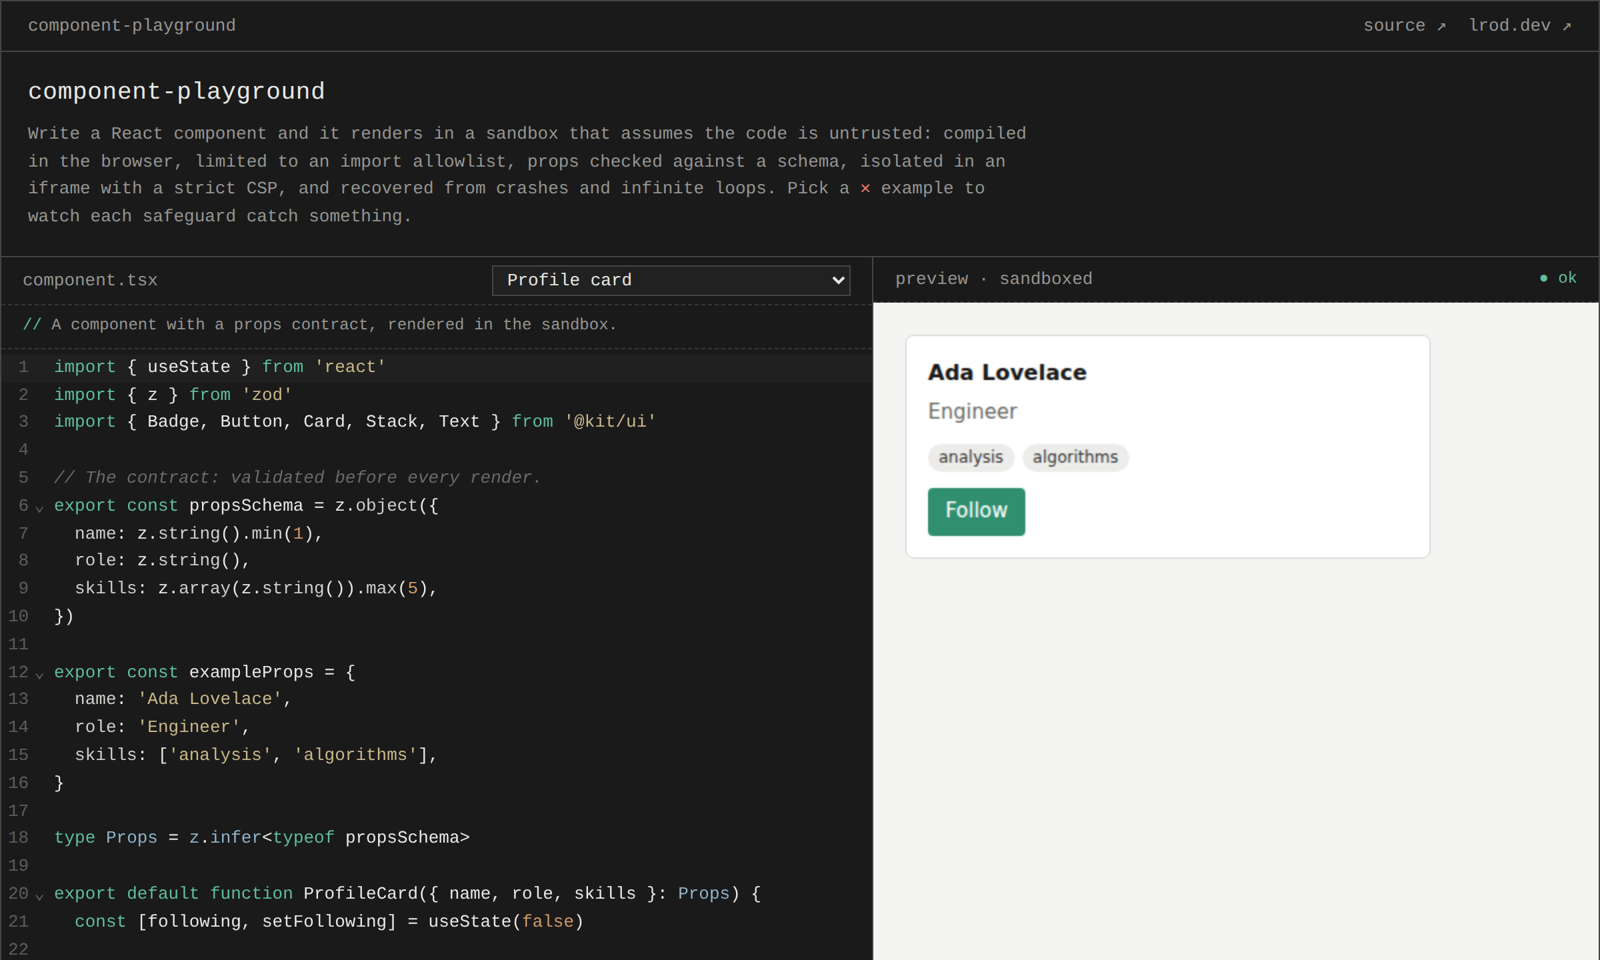
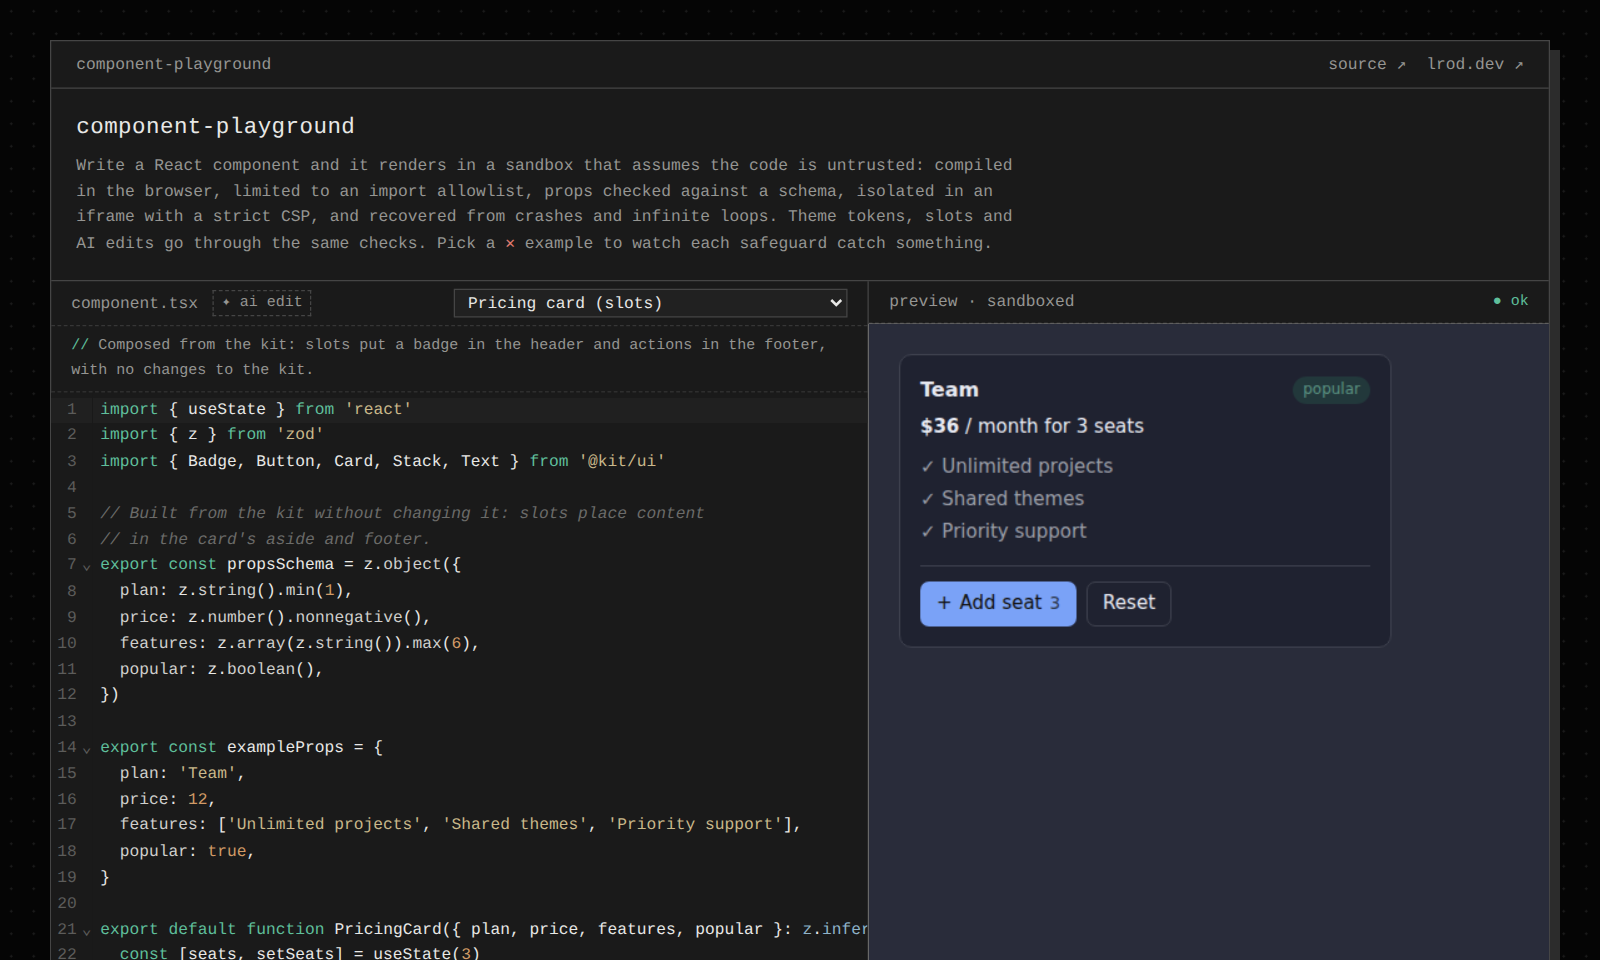
Add host CSP, key-isolation tests, v2 README and screenshot (M10)

diff --git a/src/csp.test.ts b/src/csp.test.ts
@@ -1,0 +1,57 @@
+import { describe, expect, it } from 'vitest'
+import { openai } from './ai/openai'
+import { HOST_CSP, PROVIDER_ORIGINS, SANDBOX_CSP } from './csp'
+
+const directive = (policy: string, name: string) =>
+  policy
+    .split(';')
+    .map((d) => d.trim())
+    .find((d) => d.startsWith(name + ' '))
+
+describe('content security policies', () => {
+  it('the sandbox cannot make network requests', () => {
+    expect(directive(SANDBOX_CSP, 'connect-src')).toBe("connect-src 'none'")
+    expect(directive(SANDBOX_CSP, 'default-src')).toBe("default-src 'none'")
+  })
+
+  it('the host can only reach itself and the AI provider', () => {
+    expect(directive(HOST_CSP, 'connect-src')).toBe(`connect-src 'self' ${PROVIDER_ORIGINS.join(' ')}`)
+    expect(PROVIDER_ORIGINS).toContain(openai.origin)
+  })
+
+  it('the host never evaluates code or loads third-party scripts', () => {
+    expect(directive(HOST_CSP, 'script-src')).toBe("script-src 'self'")
+    expect(HOST_CSP).not.toContain('unsafe-eval')
+    for (const policy of [HOST_CSP, SANDBOX_CSP]) expect(policy).not.toMatch(/(^|\s)\*(\s|;|$)/)
+  })
+})
+
+/**
+ * Architecture rule: the API key lives in the AI panel, and nothing that
+ * talks to the sandbox may depend on the AI code. If someone later wires the
+ * key into the sandbox path, this fails.
+ */
+describe('the API key cannot reach the sandbox', () => {
+  // Source files as text, via Vite's glob import (no Node APIs needed).
+  const sources = import.meta.glob<string>(['./**/*.{ts,tsx}', '!./**/*.test.{ts,tsx}'], {
+    query: '?raw',
+    import: 'default',
+    eager: true,
+  })
+  const files = Object.entries(sources)
+
+  it('sandbox and messaging code never import the AI modules', () => {
+    const messaging = files.filter(([f]) => f.startsWith('./sandbox/') || f === './host/useSandbox.ts' || f === './protocol.ts')
+    expect(messaging.length).toBeGreaterThan(3)
+    for (const [f, text] of messaging) expect(text, f).not.toMatch(/from ['"][./]*\/?ai\//)
+  })
+
+  it('the message protocol has no field that could carry a key', () => {
+    expect(sources['./protocol.ts']).not.toMatch(/\b(key|apiKey|token|secret|authorization)\s*:/i)
+  })
+
+  it('the key is only handled in the AI modules', () => {
+    const offenders = files.filter(([f, text]) => !f.startsWith('./ai/') && /setKey\(|Bearer /.test(text)).map(([f]) => f)
+    expect(offenders).toEqual([])
+  })
+})

diff --git a/vite.config.ts b/vite.config.ts
@@ -2,42 +2,25 @@
 import { resolve } from 'node:path'
 import react from '@vitejs/plugin-react'
 import { defineConfig, type Plugin } from 'vite'
+import { HOST_CSP, SANDBOX_CSP } from './src/csp.ts'
 
-/**
- * Strict CSP for the sandbox document, added only to production builds
- * (Vite's dev server needs inline scripts and a websocket for HMR).
- *
- * - script-src 'unsafe-eval': user code runs through `new Function`.
- * - connect-src 'none': no fetch/XHR/WebSocket, so user code can't phone home.
- * - no frame/object/form/base: nothing to embed, submit or redirect.
- */
-export const SANDBOX_CSP = [
-  "default-src 'none'",
-  "script-src 'self' 'unsafe-eval'",
-  "style-src 'self' 'unsafe-inline'",
-  'img-src data: blob:',
-  "font-src 'none'",
-  "connect-src 'none'",
-  "form-action 'none'",
-  "base-uri 'none'",
-].join('; ')
-
-function sandboxCsp(): Plugin {
+/** Adds each page's CSP as a <meta> tag, in production builds only (see src/csp.ts). */
+function csp(): Plugin {
   return {
-    name: 'sandbox-csp',
+    name: 'csp',
     apply: 'build',
     transformIndexHtml(html, ctx) {
-      if (!ctx.filename.endsWith('sandbox.html')) return html
-      return html.replace(
-        '<!-- %SANDBOX_CSP% -->',
-        `<meta http-equiv="Content-Security-Policy" content="${SANDBOX_CSP}" />`,
-      )
+      const policy = ctx.filename.endsWith('sandbox.html') ? SANDBOX_CSP : HOST_CSP
+      const tag = `<meta http-equiv="Content-Security-Policy" content="${policy}" />`
+      const marker = ctx.filename.endsWith('sandbox.html') ? '<!-- %SANDBOX_CSP% -->' : '<!-- %HOST_CSP% -->'
+      if (!html.includes(marker)) throw new Error(`CSP marker missing in ${ctx.filename}`)
+      return html.replace(marker, tag)
     },
   }
 }
 
 export default defineConfig({
-  plugins: [react(), sandboxCsp()],
+  plugins: [react(), csp()],
   build: {
     rollupOptions: {
       input: {

diff --git a/src/csp.ts b/src/csp.ts
@@ -1,0 +1,45 @@
+/**
+ * Content Security Policies, added as <meta> tags to production builds only
+ * (Vite's dev server needs inline scripts and a websocket for HMR).
+ */
+
+/** The only origins the host page may send requests to besides itself. */
+export const PROVIDER_ORIGINS = ['https://api.openai.com'] as const
+
+/**
+ * The sandbox document: runs untrusted code.
+ * - script-src 'unsafe-eval': user code runs through `new Function`.
+ * - connect-src 'none': no fetch/XHR/WebSocket, so user code can't phone home.
+ * - no frame/object/form/base: nothing to embed, submit or redirect.
+ */
+export const SANDBOX_CSP = [
+  "default-src 'none'",
+  "script-src 'self' 'unsafe-eval'",
+  "style-src 'self' 'unsafe-inline'",
+  'img-src data: blob:',
+  "font-src 'none'",
+  "connect-src 'none'",
+  "form-action 'none'",
+  "base-uri 'none'",
+].join('; ')
+
+/**
+ * The host page: holds the API key while the AI panel is open.
+ * - connect-src: only this site and the AI provider, so the key can't be sent
+ *   anywhere else even if something on the page misbehaved.
+ * - script-src 'self': no inline or third-party scripts, and no eval (user
+ *   code never runs here; it runs in the sandbox).
+ * - style-src 'unsafe-inline': the editor injects its own <style> tags.
+ */
+export const HOST_CSP = [
+  "default-src 'self'",
+  "script-src 'self'",
+  "style-src 'self' 'unsafe-inline'",
+  "img-src 'self' data:",
+  `connect-src 'self' ${PROVIDER_ORIGINS.join(' ')}`,
+  "frame-src 'self'",
+  "object-src 'none'",
+  "worker-src 'none'",
+  "form-action 'none'",
+  "base-uri 'none'",
+].join('; ')

diff --git a/index.html b/index.html
@@ -2,15 +2,16 @@
 <html lang="en">
   <head>
     <meta charset="UTF-8" />
+    <!-- %HOST_CSP% -->
     <meta name="viewport" content="width=device-width, initial-scale=1.0" />
     <meta name="color-scheme" content="dark" />
     <meta name="theme-color" content="#050505" />
-    <meta name="description" content="Write a React component and watch it render inside a sandbox that assumes the code is untrusted." />
+    <meta name="description" content="Write, theme or AI-edit a React component and watch it render inside a sandbox that assumes the code is untrusted." />
     <meta name="author" content="Luis Rodriguez" />
     <link rel="canonical" href="https://playground.lrod.dev/" />
     <meta property="og:type" content="website" />
     <meta property="og:title" content="component-playground" />
-    <meta property="og:description" content="Write a React component and watch it render inside a sandbox that assumes the code is untrusted." />
+    <meta property="og:description" content="Write, theme or AI-edit a React component and watch it render inside a sandbox that assumes the code is untrusted." />
     <meta property="og:url" content="https://playground.lrod.dev/" />
     <meta property="og:image" content="https://playground.lrod.dev/og-image.png" />
     <meta property="og:image:width" content="1200" />

diff --git a/src/App.tsx b/src/App.tsx
@@ -63,8 +63,8 @@ export default function App() {
         <p>
           Write a React component and it renders in a sandbox that assumes the code is untrusted: compiled in the
           browser, limited to an import allowlist, props checked against a schema, isolated in an iframe with a strict
-          CSP, and recovered from crashes and infinite loops. Pick a <strong>✕</strong> example to watch each safeguard
-          catch something.
+          CSP, and recovered from crashes and infinite loops. Theme tokens, slots and AI edits go through the same
+          checks. Pick a <strong>✕</strong> example to watch each safeguard catch something.
         </p>
       </div>
 

diff --git a/src/ai/openai.ts b/src/ai/openai.ts
@@ -2,6 +2,7 @@ import { z } from 'zod'
 import { EDIT_INSTRUCTIONS, editInput } from './prompt'
 import { ProviderError, type EditProposal, type EditProvider, type EditRequest } from './provider'
 
+// Must be listed in PROVIDER_ORIGINS (src/csp.ts), or the host CSP blocks it.
 const ORIGIN = 'https://api.openai.com'
 
 /** The model's answer, validated like any other untrusted input. */

diff --git a/README.md b/README.md
@@ -1,6 +1,6 @@
 # component-playground
 
-Write a React component and watch it render inside a sandbox that assumes the code is untrusted.
+Write a React component, restyle it with theme tokens, or ask an AI to edit it, and watch it render inside a sandbox that assumes all of that code is untrusted.
 
 **Live:** [playground.lrod.dev](https://playground.lrod.dev) · **Write-up:** [Running untrusted React components in the browser](https://lrod.dev/notes/running-untrusted-components/) · **Stack:** React · TypeScript · Vite · Sucrase · Zod · CodeMirror
 
@@ -15,6 +15,8 @@ The constraints that shaped it:
 - **Assume the code is hostile or just broken.** Both have to fail safely, and look the same to the host.
 - **No server.** Everything, including compilation, happens in the browser, so the demo is a static site.
 - **Every safeguard is observable.** If it can't be demonstrated in the failure gallery, it isn't claimed.
+- **Customize by composing, not editing.** Users extend a shared component kit through theme tokens and slots; the kit itself stays read-only.
+- **AI output is just more untrusted code.** It's reviewed as a diff and goes through the same checks as anything typed by hand.
 
 ## What it demonstrates
 
@@ -25,6 +27,9 @@ Letting people run their own UI code inside your app without letting that code b
 - **Validate** props against a schema before rendering
 - **Isolate** rendering in a sandboxed iframe with a strict CSP
 - **Recover** from render errors and infinite loops
+- **Theme** the kit with validated design tokens
+- **Compose** with slots, each behind its own error boundary
+- **Edit with AI** (bring your own OpenAI key), reviewed as a diff before anything runs
 
 ## Writing a component
 
@@ -48,6 +53,25 @@ export default function Hello({ name }: z.infer<typeof propsSchema>) {
 
 Imports are limited to `react`, `zod` and `@kit/ui` (`Card`, `Stack`, `Text`, `Button`, `Badge`).
 
+### Customizing the kit
+
+The kit can't be edited or patched (it's frozen); it's customized two ways:
+
+- **Theme tokens** in the theme tab: `accent`, `surface`, `text` (hex colors), `radius`, `space`, `fontScale` (bounded numbers). Text on surface must meet 4.5:1 contrast.
+- **Slots** for component parts: `Card` takes `header`, `aside` and `footer`; `Button` takes `icon` and `end`.
+
+```tsx
+<Card title="Team" slots={{ aside: <Badge tone="success">popular</Badge>, footer: <Button>Buy</Button> }}>
+  …
+</Card>
+```
+
+### AI edits
+
+Open **✦ ai edit**, paste an OpenAI API key, and describe a change. The key stays in that panel's memory only: it isn't stored, is sent only to `api.openai.com`, and never reaches the sandbox. The model's reply replaces the editor with a review view (diff, plus compile and import checks on the proposal). Nothing runs until you accept, and accepted code goes through the normal pipeline. Two demo responses, one of them malicious, work without a key.
+
+Use a restricted key (Responses: write, nothing else) with a spend limit.
+
 ## Failure gallery
 
 Every safeguard has an example that trips it on purpose (pick one from the ✕ list in the editor):
@@ -63,22 +87,34 @@ Every safeguard has an example that trips it on purpose (pick one from the ✕ l
 | Regex backtracking | watchdog | sandbox restarted after 3s |
 | `fetch()` | CSP `connect-src 'none'` | request blocked |
 | `window.parent.document`, cookies, storage, top navigation | opaque origin + sandbox flags | `SecurityError` |
+| CSS injection in a theme token | theme schema (hex colors, bounded numbers only) | issues listed, last valid theme kept |
+| Unreadable theme | whole-theme contrast rule (4.5:1) | issues listed, last valid theme kept |
+| A slot that throws | per-slot error boundary | `slot error`; only that slot is replaced |
+| Patch the kit (`ui.Button = …`) | frozen kit module | `evaluate error` (`TypeError`) |
+| AI proposal adds `axios` and `fetch()` (demo response) | pre-check on the proposal, then import allowlist and CSP | flagged in review before it can run |
 
 ## How it works
 
 ```
 Host page (trusted)                        Sandbox iframe (untrusted)
 ───────────────────                        ─────────────────────────────
+AI panel ─▶ api.openai.com
+   │ proposal (untrusted)
+   ▼
+review: diff + pre-check ─ accept ─┐
+                                   ▼
 editor ─▶ compile TSX (Sucrase)            sandbox="allow-scripts", opaque origin
            │ syntax error → shown here     CSP: connect-src 'none', no external code
            ▼
-   postMessage {render, id, code} ──────▶  evaluate module with a scoped require()
+   postMessage {render, id, code}  ─────▶  evaluate module with a scoped require()
+   postMessage {theme}  ───────────────▶  re-check tokens, set CSS variables
                                            render inside an error boundary
    ◀────── {rendered | error{phase}} ───── report errors (evaluate / validate / render / runtime)
 ```
 
 - **Compile in the host.** It's a pure string transform, so syntax errors show even if the sandbox is down.
 - **Execute in the sandbox.** Everything that runs user code happens inside the iframe.
+- **Theme tokens travel as data.** The host sends validated tokens; the sandbox re-checks them and sets each one as a CSS variable with `setProperty`.
 - **Validate both directions.** Messages are checked with Zod on both sides and tagged with a render id, so a slow, stale result can't overwrite a newer one.
 
 ## Key decisions
@@ -94,6 +130,12 @@ editor ─▶ compile TSX (Sucrase)            sandbox="allow-scripts", opaque o
 | **Watchdog (heartbeat + restart)** | The host pings the sandbox every second; after 3s of silence it throws the iframe away and starts a fresh one, without resending the code that hung. | Relies on the iframe running on its own thread. Chromium isolates sandboxed frames in their own process; browsers that don't can freeze the tab while the sandbox is stuck. |
 | **CSP inside the sandbox** | `connect-src 'none'` blocks `fetch`/XHR/WebSocket, so user code can't send data anywhere. | Needs `'unsafe-eval'` because user code runs via `new Function`; the CSP is added to production builds only, since the dev server needs HMR. |
 | **`postMessage` with target `'*'`** | An opaque origin can't be addressed by name. Both sides instead check `event.source` and validate the payload. | Messages must never carry anything sensitive; they only carry the user's own code and render status. |
+| **Theme tokens instead of custom CSS** | A small set of typed tokens (hex colors, bounded numbers) can't carry extra CSS, and whole-theme rules like contrast can be checked. Each value is set with `setProperty`, never concatenated into a stylesheet. | Far less expressive than arbitrary CSS; derived colors come from `color-mix()`. |
+| **Slots, each with its own error boundary** | Users change layout without touching kit code, and a broken slot is replaced by a placeholder while the rest of the component renders. | Only the parts the kit exposes as slots can be customized. |
+| **Read-only kit** | The kit is passed to user code as a frozen object of frozen components, so replacing or patching one throws instead of silently changing the kit. | Customization has to go through tokens and slots, by design. |
+| **AI edits: bring your own key, no server** | Keeps the demo a static site with nothing that spends someone else's money. The key stays in the AI panel's memory. | Visitors need their own OpenAI key for live edits; two canned responses show the flow without one. |
+| **AI output treated as untrusted input** | The reply is strict JSON checked with Zod, shown as a diff, and pre-checked (compile + import scan) before you decide. Accepting only puts it in the editor. | A model can still propose code that passes static checks and misbehaves at runtime; the sandbox is what contains that. |
+| **CSP on the host page too** | `connect-src 'self' https://api.openai.com` means the key can only ever go to OpenAI, and `script-src 'self'` rules out injected scripts on the page that holds it. | Adding a provider means adding its origin to the policy (one list in `src/csp.ts`). |
 
 ## Limitations
 
@@ -103,6 +145,8 @@ Known and accepted:
 - **No CPU or memory limits.** The loop guard and watchdog recover from hangs, but a component can still use a lot of memory or CPU before that happens.
 - **Browser differences.** The watchdog relies on the sandboxed iframe running on its own thread. Chromium isolates sandboxed frames in a separate process; other browsers may freeze the whole tab until the watchdog or the loop guard fires.
 - **Side channels aren't in scope.** Timing and rendering side channels (e.g. measuring layout) aren't mitigated.
+- **The API key is visible to the page that holds it.** CSP limits where it can be sent, but anything running on the host page could read it. Use a restricted key with a spend limit.
+- **Prompt injection isn't prevented, only contained.** Instructions hidden in the code could steer the model; its output still has to pass review and every check before it runs.
 - **The loop guard is best-effort.** It's code instrumentation, so determined code can get around it; the watchdog is the backstop.
 
 ## Performance
@@ -119,7 +163,7 @@ npm run lint       # oxlint
 npm run build      # type-check + production build to dist/
 ```
 
-The sandbox CSP is only added to production builds (the dev server needs HMR), so check network blocking with `npm run build && npm run preview`.
+Both CSPs (host and sandbox) are only added to production builds (the dev server needs HMR), so check network blocking with `npm run build && npm run preview`.
 
 Requires Node 20.19+ (see `.nvmrc`).
 
